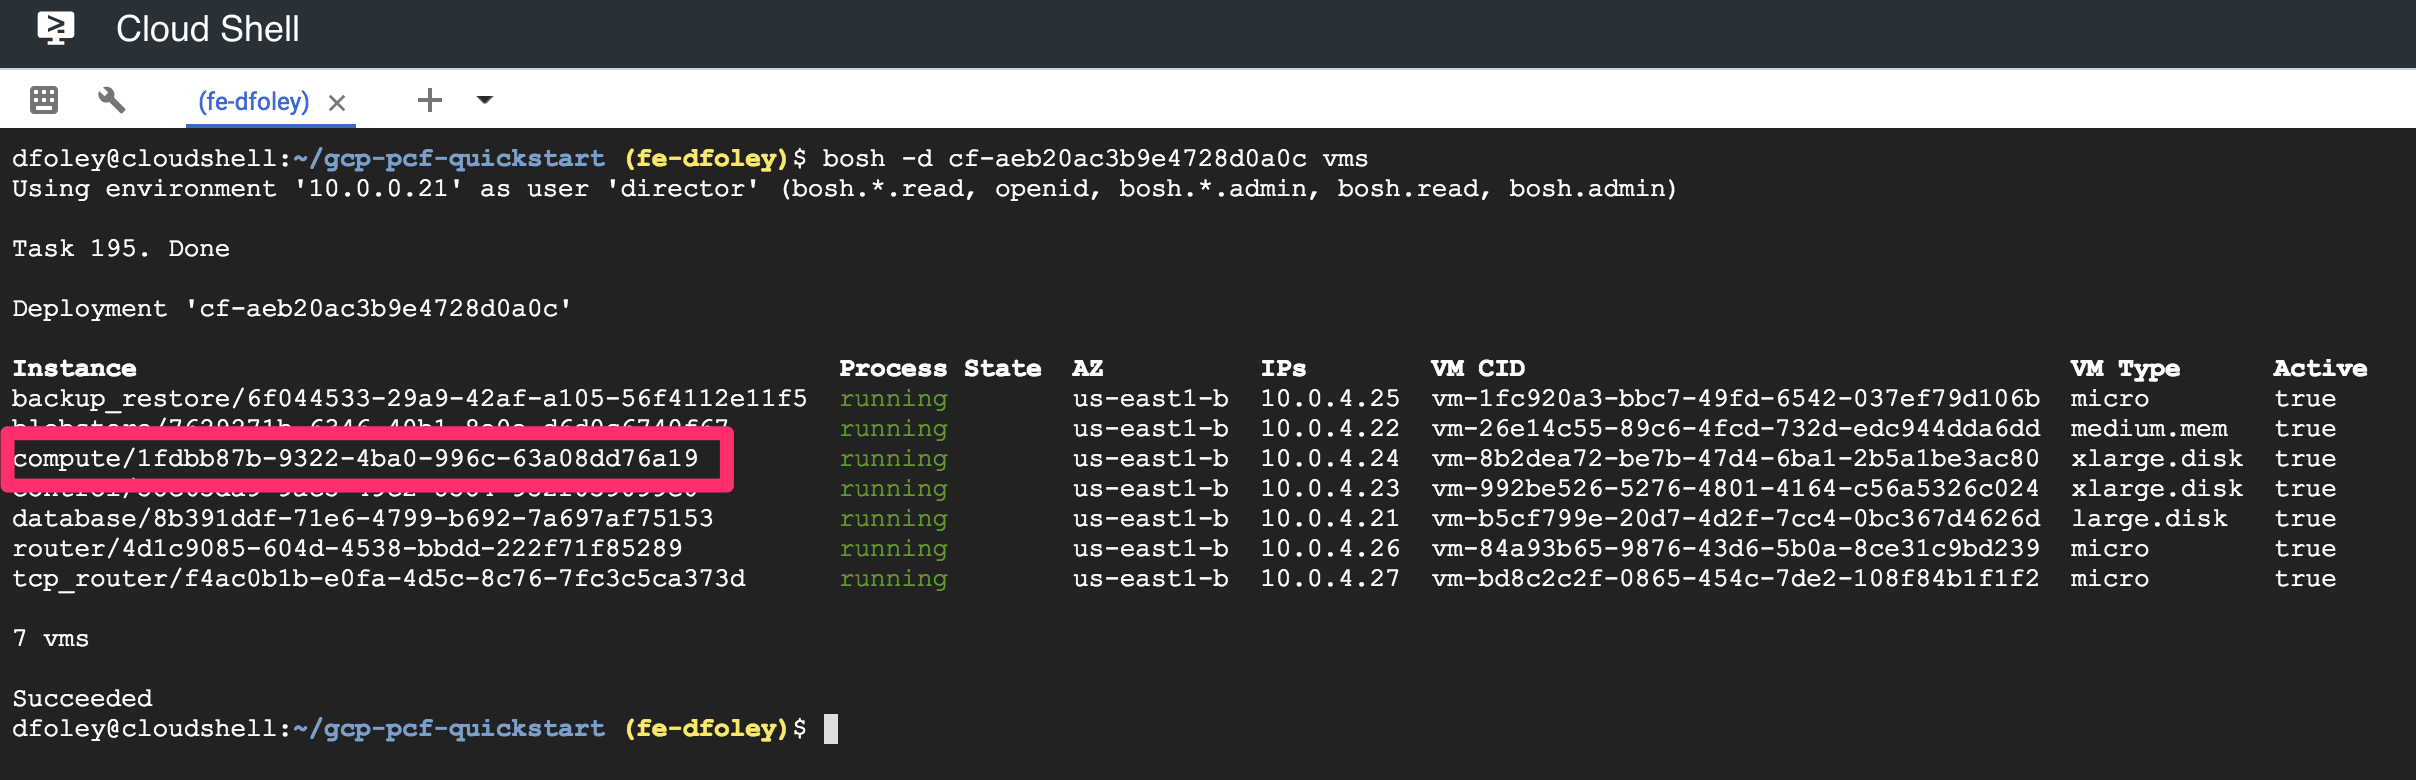
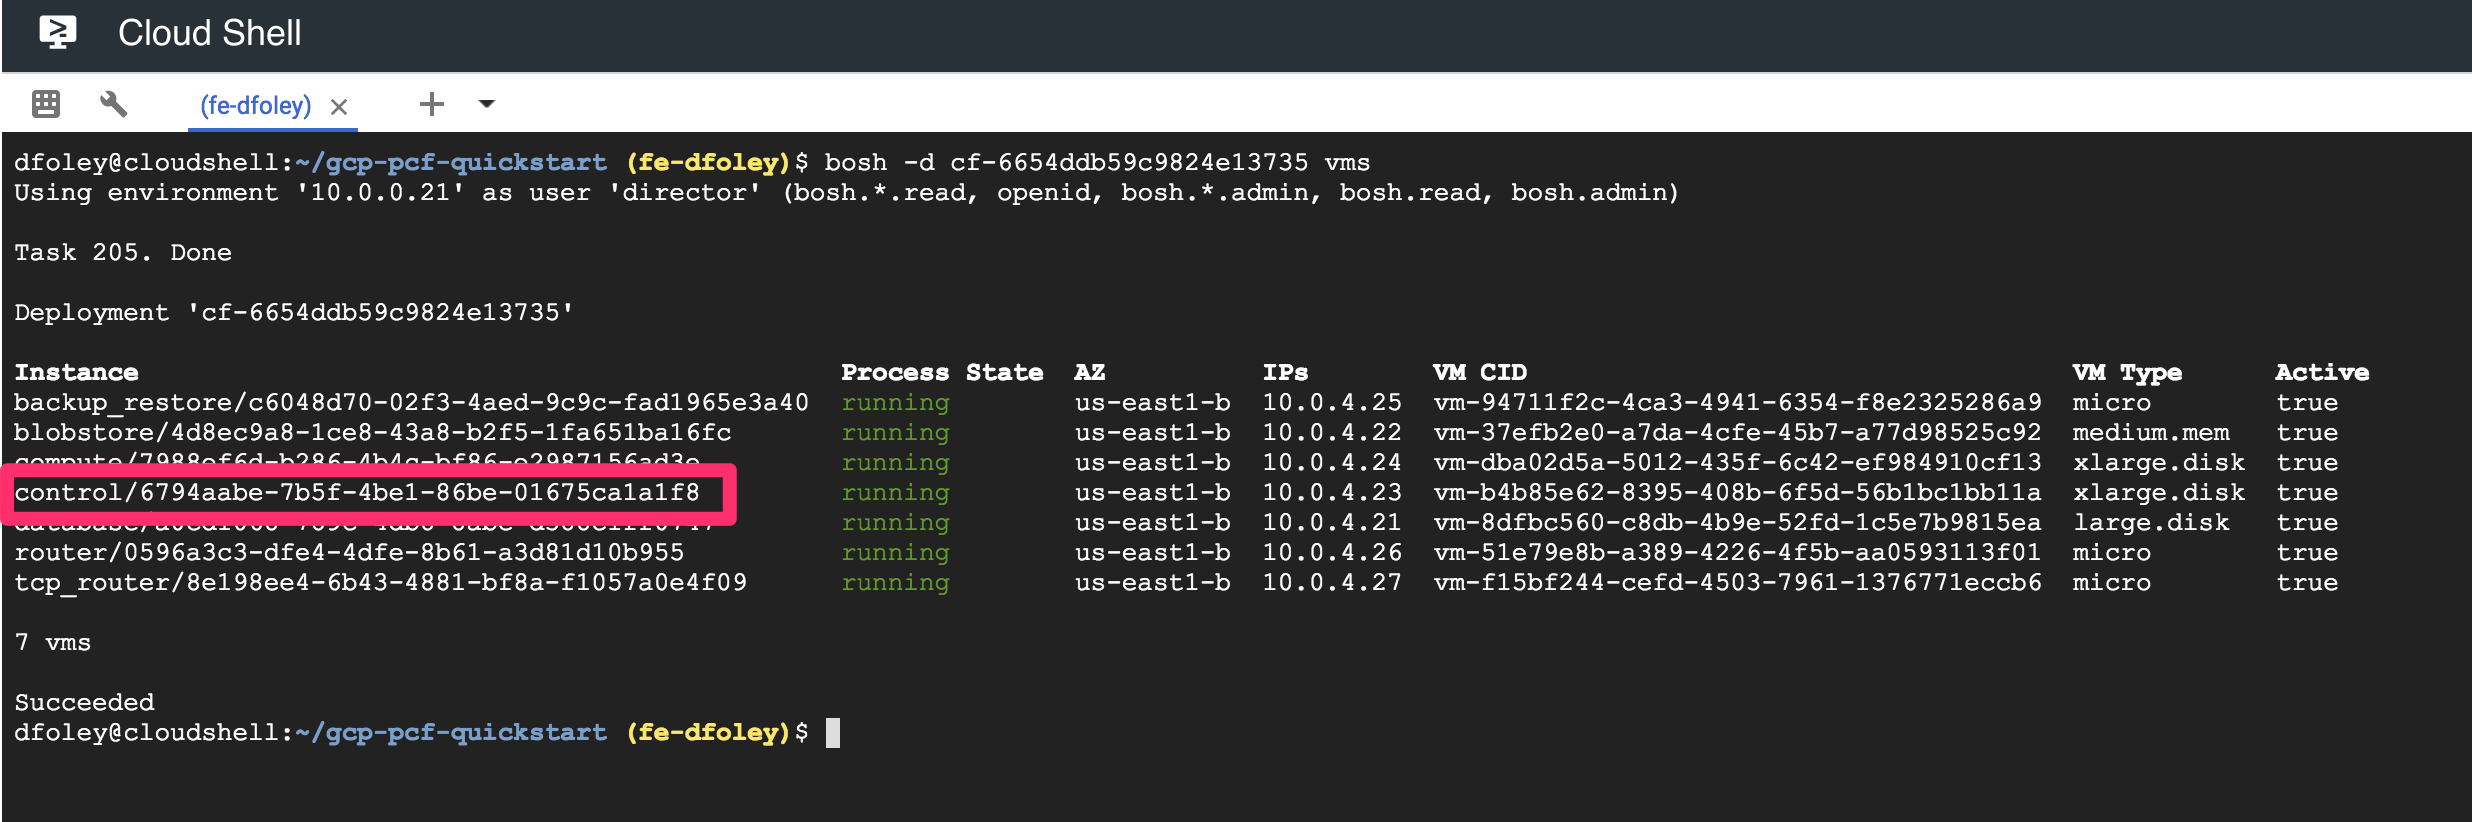
Updates to BOSH admin lab

Changed region(s): [[0.0, 0.3692, 0.9934, 0.9538], [0.0, 0.1231, 1.0, 0.3385], [0.0, 0.0, 0.1242, 0.0615]]

diff --git a/README.md b/README.md
@@ -923,12 +923,12 @@ Use **bosh ssh** to log in to the VMs in your deployment with SSH.
 - First we need to install the **netcat** utility.
 
 ```bash
-sudo apt-get install netcat
+sudo apt-get install netcat-openbsd
 ```
 
 ![](images/image98.png)
 
-- Use the BOSH command above to list our all VM's for the PAS deployment. Capture instance name for the **compute** VM.
+- Use the **BOSH vms** command to list out nall VM's for the PAS deployment. Capture instance name for the **control** VM.
 
 ```bash
 bosh -d <PAS deployment name> vms
@@ -942,8 +942,7 @@ bosh -d <PAS deployment name> vms
 bosh -d <PAS deployment name> ssh VM-NAME/GUID
 ```
 
-![](images/image97.png)
-
+![](images/image99.png)
 
 
 - **You have completed workshop!!!**
